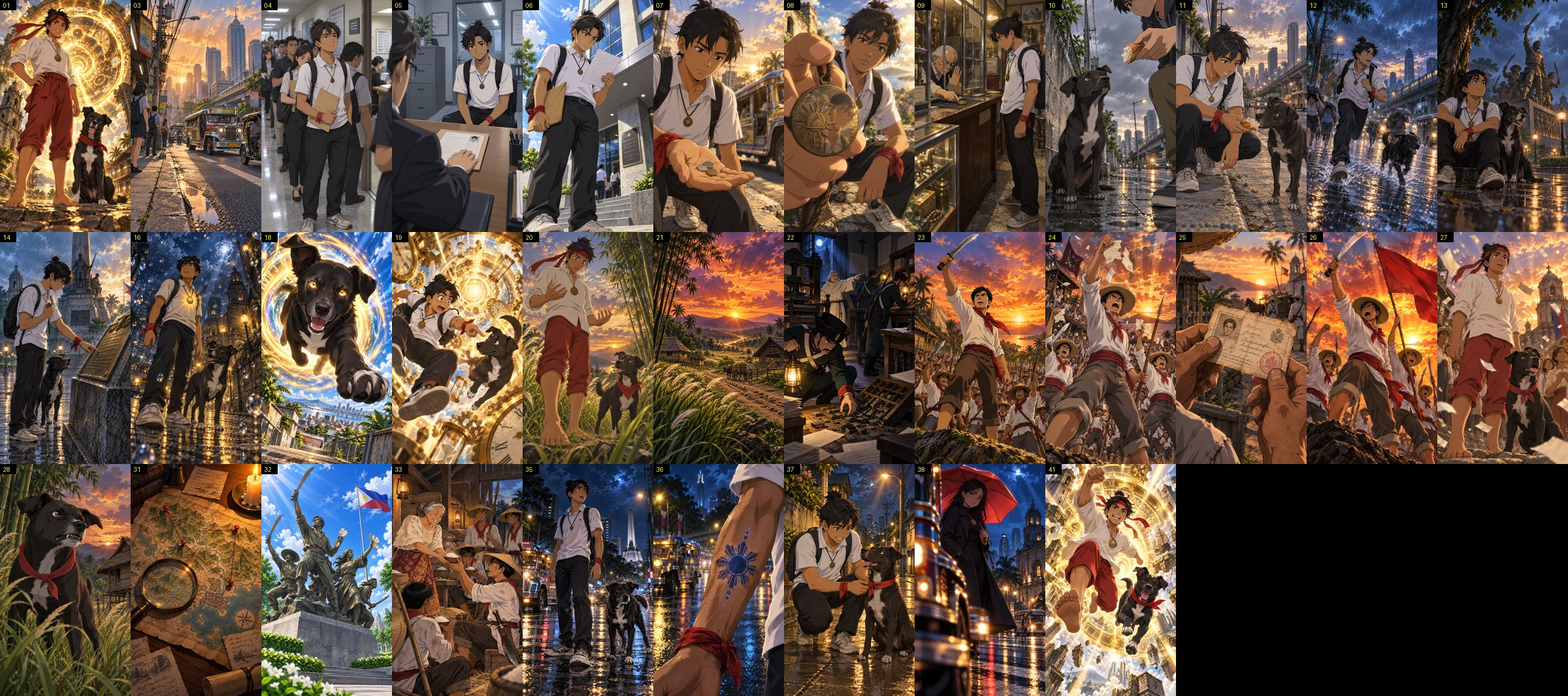
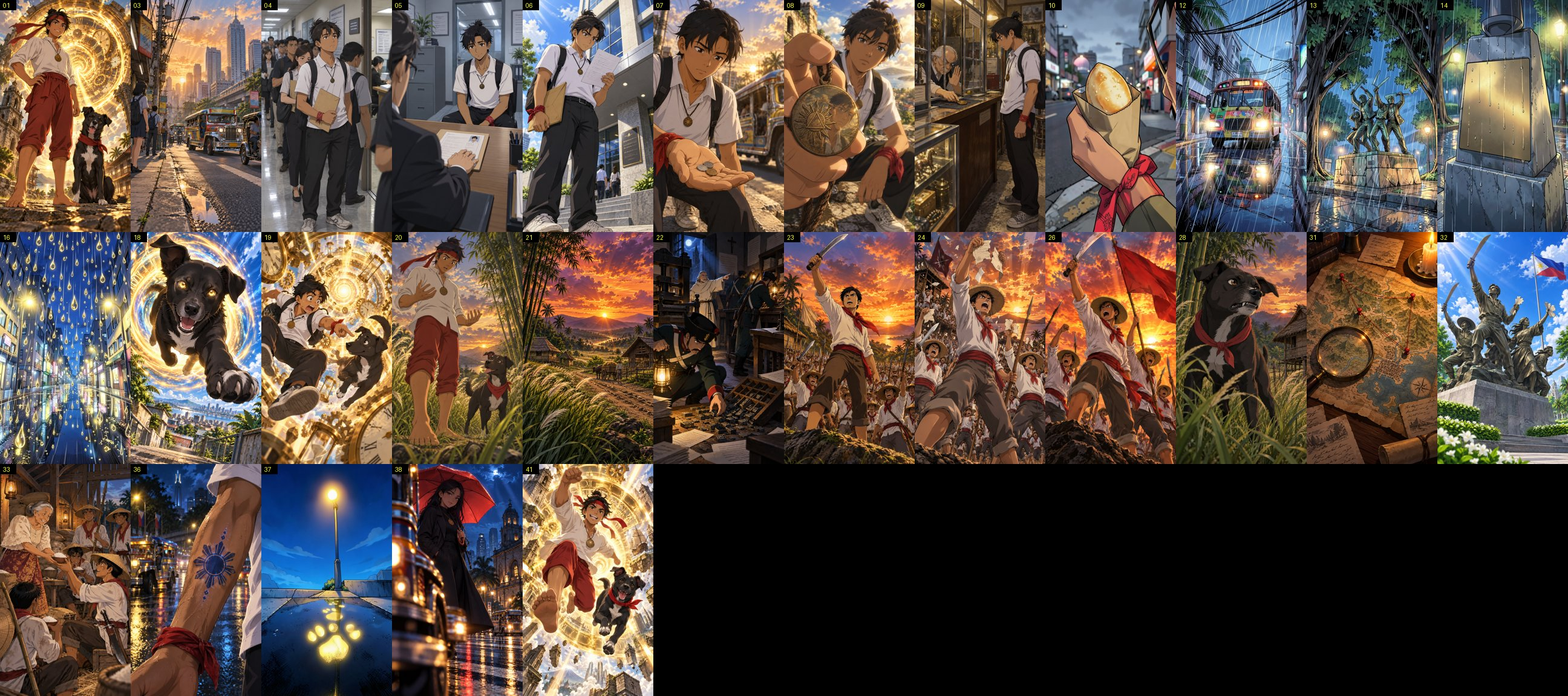
History Indio: Episode 1 timings for the v2 recording, draft scenery frames, captions
Claude-Session: https://claude.ai/code/session_014Q6Ynq3SJiAQNXx1MAwomj

diff --git a/history-indio/HANDOFF.md b/history-indio/HANDOFF.md
@@ -16,6 +16,10 @@ Read this first in a new session. Then read `history-indio/README.md` ("Anime wo
 - Frames to generate from `key_prompts.json` once Figma credits reset: 10, 12, 13, 14, 15, 16, 25, 27, 35, 37 (the old k10–k14, k16, k35, k37 show the dog in the present day and must be replaced; delete old k11). After frame 15 exists, remove the `"key": 8` fallbacks in shots_fx.json (15 uses its own frame; 17 and 34 use key 15).
 - A 720p preview of the OLD version was rendered for the user to judge the look only.
 
+## UPDATE 2026-11-12 07:45 UTC — Episode 1 built from the new recording
+- The user recorded script v2; `timings.json` is aligned to it (141.6 s). Built at 1080p with DRAFT frames: k10, k12, k13, k14, k16, k37 are NVIDIA FLUX.2 klein scenery (no characters); sentences 15/17/34 reuse k08, 25 reuses k24, 27 reuses k20, 35 reuses k12, 11 reuses k07. Old k11, k25, k27, k35 were deleted.
+- To upgrade when Figma credits reset: generate 10, 12, 13, 14, 15, 16, 25, 27, 35, 37 from `key_prompts.json`, drop the matching "key" fallbacks in shots_fx.json, rebuild (same recording, no re-alignment). Voice file is not in the repo.
+
 ## What exists
 - Channel: History Indio (Tagalog/Taglish history and myth explainers, vertical, ~3 min). Branch: `claude/eager-davinci-9qu2gg`. Repo is PUBLIC: never commit MP4s or voice files.
 - Finished videos: `kanyon-na-banig` (komiks look), `bakunawa-pitong-buwan` and `limahong-1574` (anime look, user's ElevenLabs voice). Captions are in each folder's `captions.md`.

diff --git a/history-indio/videos/ep01-ang-unang-talon/captions.md b/history-indio/videos/ep01-ang-unang-talon/captions.md
@@ -2,7 +2,7 @@
 
 ## Facebook (Reels)
 EPISODE 1: Kaninang umaga, naghahanap lang ng trabaho si Indio. Ngayong gabi, nasa 1896 na siya. ⏳🔥
-Isang lumang medalyon, isang historical marker, at isang asong-kalye na biglang nagsalita. Pagdilat niya, nasa harap na niya si Bonifacio at ang mga Katipunerong pinupunit ang kanilang cedula.
+Isang lumang medalyon, isang historical marker, at isang asong lumabas mula sa liwanag at nagsalita. Pagdilat niya, nasa harap na niya si Bonifacio at ang mga Katipunerong pinupunit ang kanilang cedula.
 
 Ito ang simula ng time-travel series ng History Indio. Kathang-isip si Indio at si Usman; totoo ang kasaysayang sinasaksihan nila.
 
@@ -37,7 +37,7 @@ EP 1 ⏳ Naghanap lang ng trabaho si Indio, napunta sa 1896. Pinunit ng mga Kati
 #historyindio #katipunan #bonifacio #sigawngpugadlawin #kasaysayan #philippinehistory #timetravel #pinoyanime #alaminnatin #fyp #foryou #pinoytiktok
 
 ## Instagram Reels
-Episode 1: mula sa pila ng job application sa QC, hanggang sa Sigaw ng 1896. ⏳🔥 Kasama si Usman, ang asong marunong magsalita.
+Episode 1: mula sa pila ng job application sa QC, hanggang sa Sigaw ng 1896. ⏳🔥 Kasama si Usman, ang asong lumilitaw lang sa bawat talon.
 Pupunitin mo rin ba ang cedula mo? 👇
 
 #historyindio #katipunan #bonifacio #sigawngpugadlawin #philippinehistory #kasaysayanngpilipinas #timetravel #pinoyanime #filipinohistory #kasaysayan

diff --git a/history-indio/topics.md b/history-indio/topics.md
@@ -13,7 +13,7 @@ Pick the first unchecked topic that still looks strongest, verify it with dated 
 - [ ] Ang Tribong "Stone Age" na Baka Palabas Lang (Tasaday, 1971 — disputed)
 
 ## Time-travel series (Indio + Usman; see HANDOFF.md series bible)
-- [ ] Episode 1: Ang Unang Talon (origin; Sigaw ng Pugad Lawin, 1896) — in progress: `videos/ep01-ang-unang-talon` (script v2 written: Usman only in the jump; needs a NEW recording and 10 new frames: 10, 12, 13, 14, 15, 16, 25, 27, 35, 37)
+- [ ] Episode 1: Ang Unang Talon (origin; Sigaw ng Pugad Lawin, 1896) — in progress: `videos/ep01-ang-unang-talon` (built from the v2 recording with draft frames; upgrade frames 10, 12, 13, 14, 15, 16, 25, 27, 35, 37 with Figma, then final)
 - [ ] Episode 2: Nang Sakupin ng British ang Maynila (1762) — marker in Intramuros
 - [ ] Episode 3: Ang Kuwento ni Usman (Usman's backstory) — RESERVED: the user's team is preparing this one; do not write it, ask the user for their material
 - [ ] Episode 4: Binili Tayo sa Halagang $20 Milyon (Treaty of Paris, 1898)

diff --git a/history-indio/videos/ep01-ang-unang-talon/facts.md b/history-indio/videos/ep01-ang-unang-talon/facts.md
@@ -1,6 +1,6 @@
 # Facts — Episode 1: Ang Unang Talon (Sigaw ng Pugad Lawin, 1896) (checked 2026-11-12)
 
-**Fiction, on purpose:** Indio, his Lolo's medallion, the time jump, the talking dog, the new tattoo and the woman across the street are invented story elements. Captions say so. Indio only witnesses; nothing he does changes the events.
+**Fiction, on purpose:** Indio, his Lolo's medallion, the time jump, the talking dog, the new tattoo and the woman across the street are invented story elements. Captions say so. Indio only witnesses; nothing he does changes the events. Usman exists only during the jump and in the past; he is not in the present-day scenes.
 
 | Claim | Status | Sources |
 |---|---|---|
